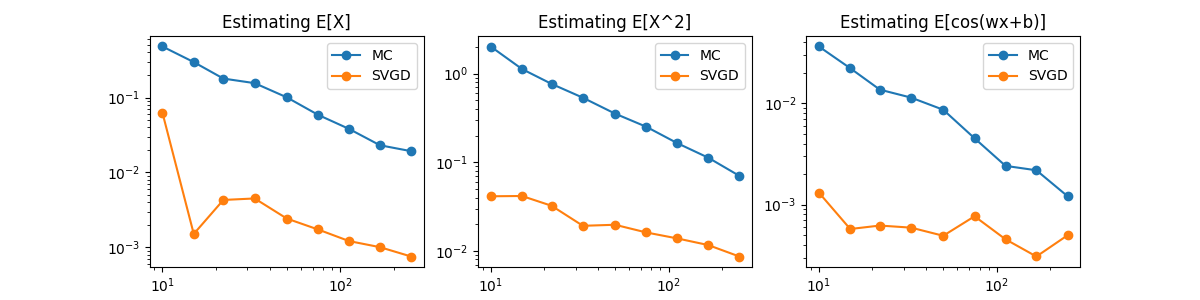
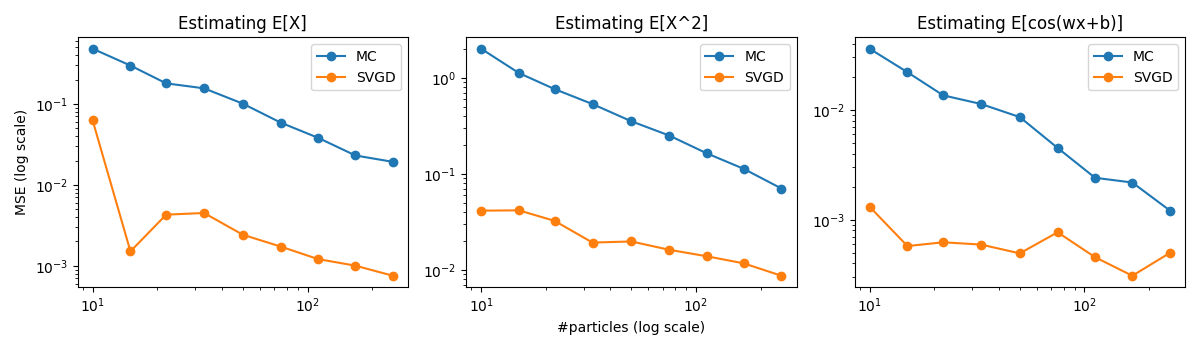
update figure

diff --git a/original-code/Toy-Examples/mixture_fig2_simple.py b/original-code/Toy-Examples/mixture_fig2_simple.py
@@ -198,6 +198,11 @@ outfile1 = '../../figs/toy-figure2.png'
 file2 = "./output/mixture_fig2_merged.json"
 outfile2 = '../../figs/toy-figure2-merged.png'
 
+def forceAspect(ax,aspect=1):
+    im = ax.get_images()
+    extent = im[0].get_extent()
+    ax.set_aspect(abs((extent[1]-extent[0])/(extent[3]-extent[2]))/aspect)
+
 def plot_file(filename, outfile):
   with open(filename, 'r') as f:
     all_result_dict = json.load(f)
@@ -205,7 +210,7 @@ def plot_file(filename, outfile):
   import matplotlib.pyplot as plt
   fig_keys = list(est_true_value_dict.keys())
   num_plots = len(fig_keys)
-  fig = plt.figure(figsize=(4 * num_plots, 3))
+  fig = plt.figure(figsize=(4 * num_plots, 3.5))
   axs = fig.subplots(nrows=1, ncols=num_plots, sharex=True, sharey=False)
   for i, key in enumerate(fig_keys):
     estimate_dict = all_result_dict[key]
@@ -213,12 +218,16 @@ def plot_file(filename, outfile):
     ax.set_title(f'Estimating {key}')
     ax.set_yscale('log')
     ax.set_xscale('log')
+    if i == 0: ax.set_ylabel('MSE (log scale)')
+    if i == 1: ax.set_xlabel('#particles (log scale)')
     for method_key in estimate_dict:
       estimate_mse_data = estimate_dict[method_key]
       X, Y = np.array(estimate_mse_data).T
       ax.plot(X, Y,  marker='o')
+    
     ax.legend(list(estimate_dict.keys()))
 
+  plt.tight_layout()
   print("saving fig to:", outfile)
   fig.savefig(outfile)
 

diff --git a/original-code/Toy-Examples/simple_scalability_test_numpyro.py b/original-code/Toy-Examples/simple_scalability_test_numpyro.py
@@ -82,7 +82,7 @@ if "redo_timing" in sys.argv:
 
 
 timing_data = np.loadtxt("./simple_scalability_test_timing_numpyro_elbo.csv", delimiter=",")
-dropped_timing_data = timing_data[0:]
+dropped_timing_data = timing_data[1:]
 mean_data = np.mean(dropped_timing_data, axis=0)
 print(mean_data)
 div100_particle_sizes = np.array(timing_particle_sizes)/100
@@ -92,6 +92,8 @@ fit_func = np.poly1d(fit_coefficients)
 
 plt.clf()
 mesh = np.linspace(0, timing_particle_sizes[-1]/100, 100)
+plt.xlabel("#particles")
+plt.ylabel("time(s)")
 plt.plot(mesh * 100, [fit_func(x) for x in mesh], '--')
 plt.plot(timing_particle_sizes, mean_data, "ro", linestyle="None",markersize=6)
 plt.legend([f"${round(fit_coefficients[0], 3)} x'^2 + {round(fit_coefficients[1], 3)} x' + {round(fit_coefficients[2],3)}$  (x' = x/100)", "averaged timing data"])

diff --git a/original-code/Toy-Examples/simple_scalability_test.py b/original-code/Toy-Examples/simple_scalability_test.py
@@ -48,6 +48,8 @@ fit_func = np.poly1d(fit_coefficients)
 
 plt.clf()
 mesh = np.linspace(0, timing_particle_sizes[-1]/100, 100)
+plt.xlabel("#particles")
+plt.ylabel("time(s)")
 plt.plot(mesh * 100, [fit_func(x) for x in mesh], '--')
 plt.plot(timing_particle_sizes, mean_data, "ro", linestyle="None",markersize=6)
 plt.legend([f"${round(fit_coefficients[0], 3)} x'^2 + {round(fit_coefficients[1], 3)} x' + {round(fit_coefficients[2],3)}$  (x' = x/100)", "averaged timing data"])
